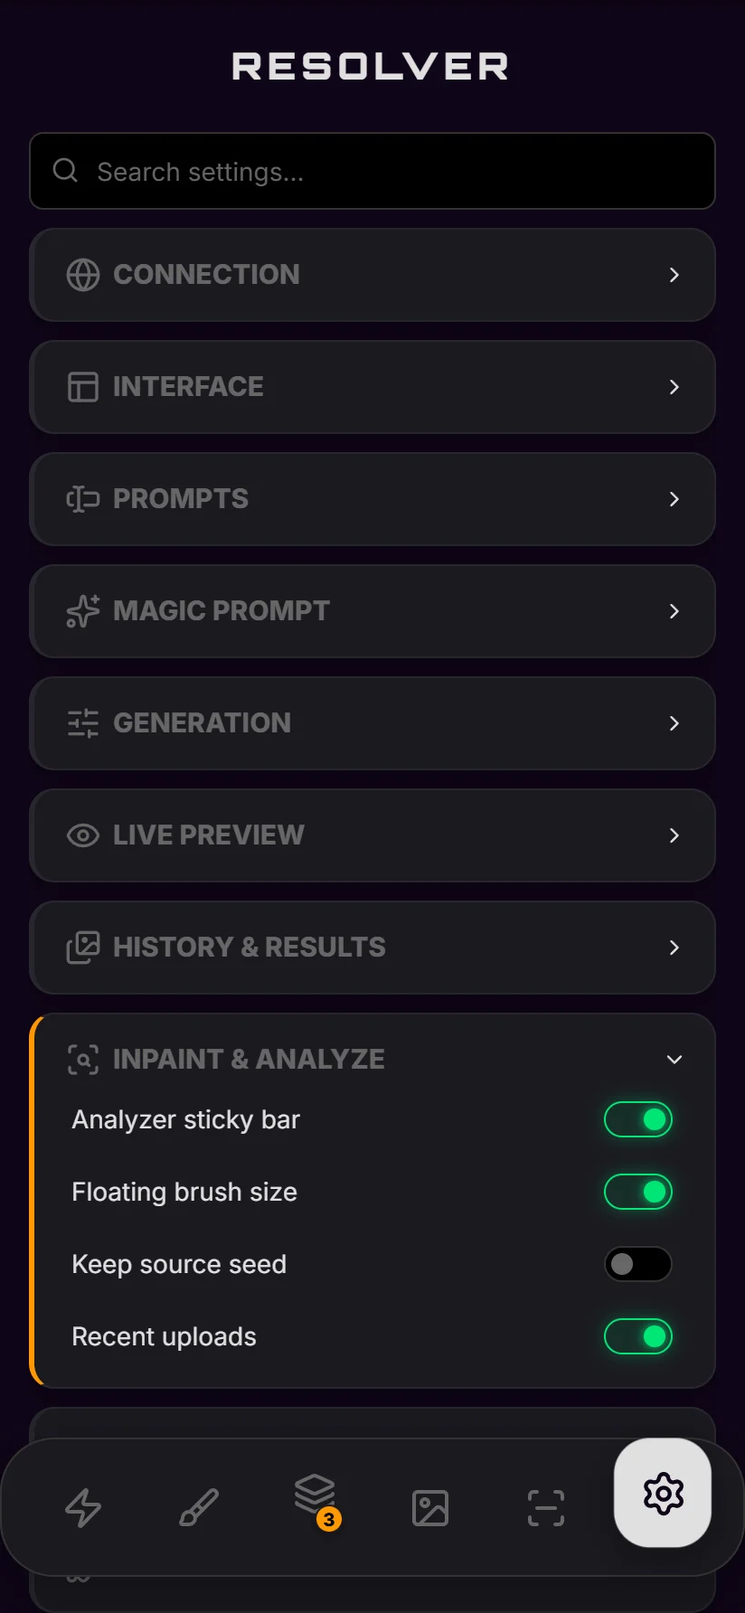
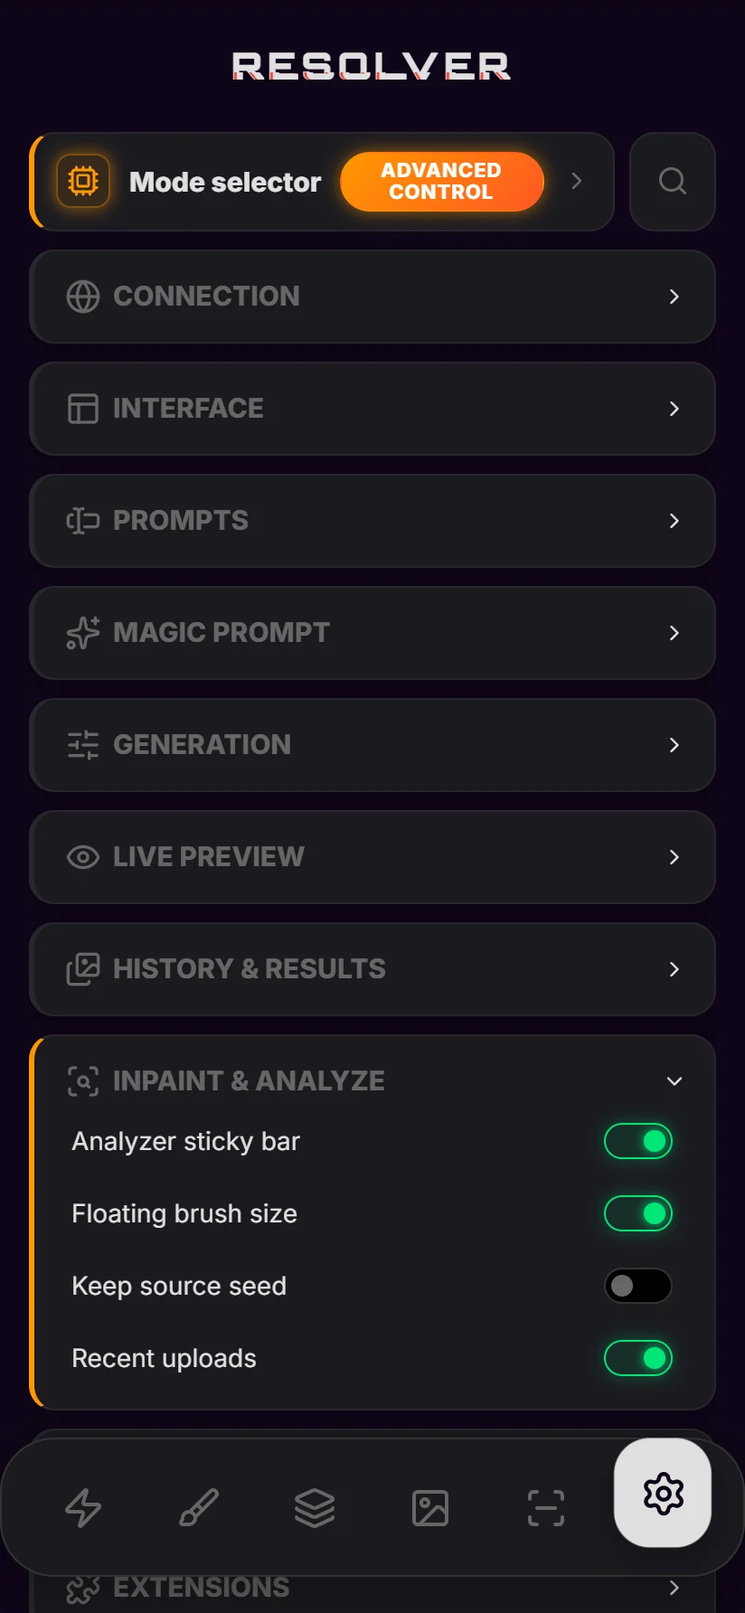
Docs: Simple mode and Advanced Control
Config page: a Simple and Advanced Control section (what each mode shows, holding the CPU, back to Simple), the search icon, and a mode filter in the settings explorer with Advanced Control tags. Every Config path in the docs to an Advanced-only option is tagged automatically. Help gets a 'setting not in my Config' answer, search finds the new sections, Getting Started mentions Simple mode, and the docs say v3.1. Config screenshots are retaken, with four new ones (the Mode Selector in its three states and Config with Advanced Control on).

diff --git a/docs/html/assets/js/docs.js b/docs/html/assets/js/docs.js
@@ -253,7 +253,7 @@
             gal: { icon: 'image', name: 'History', shot: 'tab-history', text: 'Every image you make, with search, favourites, date sections, multi-select, sharing and comparing.', link: 'history' },
             ana: { icon: 'scan-line', name: 'Analyze', shot: 'tab-analyze', text: "Open any image to read how it was made (prompt, seed, model, LoRAs) and send those settings straight back to Generate.", link: 'analyze' },
             comfy: { icon: 'workflow', name: 'ComfyUI', shot: 'tab-comfy', text: 'Run your own ComfyUI workflows. Resolver builds controls for the workflow’s inputs. Hidden until you switch it on in Config.', link: 'comfyui' },
-            cfg: { icon: 'settings', name: 'Config', shot: 'tab-config', text: 'Every setting, in 13 sections: Connection, Interface, Prompts, Magic Prompt, Generation, Live Preview, History & Results and more, with a search box at the top.', link: 'config' },
+            cfg: { icon: 'settings', name: 'Config', shot: 'tab-config', text: 'Every setting, in 13 sections. It starts in Simple mode (Connection, theme, dock, visible tabs, System Settings); the Mode selector at the top switches on Advanced Control for the rest. Search with the icon beside it.', link: 'config' },
         };
         const MODELS = [['xl', 'SDXL', '#ff9800', 'gen-sdxl'], ['anima', 'ANIMA', '#00c853', 'gen-anima'], ['qwen', 'QWEN', '#ff007f', 'gen-qwen'], ['flux', 'FLUX', '#00e5ff', 'gen-flux'], ['krea', 'KREA', '#b026ff', 'gen-krea']];
         const img = $('.screen img', el), dock = $('.tour-dock', el), info = $('.tour-info', el);
@@ -436,6 +436,49 @@
     const paintPc = t => (window.PromptPaint ? PromptPaint.html(t, false) : esc(t));
     $$('[data-pc]').forEach(el => { el.innerHTML = paintPc(el.dataset.pc); el.classList.add('pc-text'); });
 
+    // Config's two modes (the app's advcontrol.js). Simple, the default, shows Connection, System Settings and, in
+    // Interface, Dock style, Light mode and Visible tabs; everything else shows with Advanced Control on.
+    const CFG_SECTIONS = { 'connection': 'connection', 'interface': 'interface', 'prompts': 'prompts', 'magic prompt': 'magic',
+        'generation': 'generation', 'live preview': 'livepreview', 'history & results': 'history', 'inpaint & analyze': 'inpana',
+        'models': 'models', 'extensions': 'extensions', 'diagnostics': 'diag', 'experimental': 'experimental', 'system settings': 'sys' };
+    const SIMPLE_IFACE = ['dock style', 'light mode', 'visible tabs'];
+    const cfgAdvanced = (sec, item) => sec === 'interface'
+        ? !SIMPLE_IFACE.some(n => String(item || '').trim().toLowerCase().startsWith(n))
+        : !['connection', 'sys'].includes(sec);
+    const ADV_TAG = `<a class="adv-tag" href="config.html#modes" title="Shown with Advanced Control on">${icon('cpu')}Advanced Control</a>`;
+    // Each "Config → Section → Option" in the text gets that tag when the option is only in Advanced Control.
+    (function tagAdvanced() {
+        const main = $('main.content');
+        if (!main) return;
+        const walk = document.createTreeWalker(main, NodeFilter.SHOW_TEXT), hits = [];
+        for (let n; (n = walk.nextNode());) {
+            if (n.nodeValue.includes('Config →') && !n.parentElement.closest('th, code, pre, a, [data-widget="cfgexplorer"], .adv-tag')) hits.push(n);
+        }
+        hits.forEach(n => {
+            const t = n.nodeValue, i = t.indexOf('Config →');
+            const head = t.slice(i).match(/^Config →\s*/)[0];
+            const after = t.slice(i + head.length);
+            const key = Object.keys(CFG_SECTIONS).find(k => after.toLowerCase().startsWith(k));
+            if (!key) return;
+            const im = after.slice(key.length).match(/^\s*→\s*([^→·,;.()]+)/);
+            let item = im && im[1];
+            // "Config → Interface" under an option's name: that option.
+            if (!item && key === 'interface') { const dt = n.parentElement.closest('dt'); if (dt && dt.firstChild) item = dt.firstChild.textContent; }
+            if (!cfgAdvanced(CFG_SECTIONS[key], item)) return;
+            const host = n.parentElement.closest('.ui, small');
+            if (host) {
+                if (host.tagName === 'SMALL') { if (!$('.adv-tag', host)) host.insertAdjacentHTML('beforeend', ' ' + ADV_TAG); }
+                else if (!host.nextElementSibling || !host.nextElementSibling.classList.contains('adv-tag')) host.insertAdjacentHTML('afterend', ADV_TAG);
+                return;
+            }
+            // In running text: right after the path.
+            const rest = n.splitText(i + head.length + key.length + (im ? im[0].replace(/\s+$/, '').length : 0));
+            const tmp = document.createElement('span');
+            tmp.innerHTML = ADV_TAG;
+            rest.parentNode.insertBefore(tmp.firstChild, rest);
+        });
+    })();
+
     // The weight each tag of a prompt gets, as Forge reads brackets: ( ) x1.1, [ ] /1.1, (tag:1.3) that number, nested
     // ones multiplied; \( \) are text; [a:b:0.5] / [tag:0.5] are timings, not weights.
     function tagWeights(text) {
@@ -564,22 +607,31 @@
     // Config: every option, searchable (data in config-data.js).
     W.cfgexplorer = el => {
         const D = window.CFG_DATA || [];
-        const q = $('input', el), chips = $('.cfgx-chips', el), list = $('.cfgx-list', el), count = $('.cfgx-count', el);
-        let sec = 'all';
+        const q = $('input', el), chips = $('.cfgx-chips:not(.cfgx-modes)', el), modes = $('.cfgx-modes', el), list = $('.cfgx-list', el), count = $('.cfgx-count', el);
+        let sec = 'all', mode = 'all';
         const total = D.reduce((n, s) => n + s.items.length, 0);
+        const MODE_NAME = { simple: 'in Simple', advanced: 'only in Advanced Control' };
+        // A whole section in Advanced Control is marked once, on its heading; in Interface, each option.
+        const secAdv = s => s.id !== 'interface' && cfgAdvanced(s.id);
+        const inMode = (s, it) => mode === 'all' || (mode === 'advanced') === cfgAdvanced(s.id, it.n);
         chips.innerHTML = `<button data-s="all" aria-pressed="true">All</button>` + D.map(s => `<button data-s="${s.id}">${icon(s.icon)}${esc(s.name)}</button>`).join('');
+        if (modes) {
+            modes.innerHTML = `<button data-m="all" aria-pressed="true">Both modes</button><button data-m="simple">${icon('layout-list')}Simple</button><button data-m="advanced">${icon('cpu')}Advanced Control</button>`;
+            modes.onclick = e => { const b = e.target.closest('button'); if (!b) return; mode = b.dataset.m; $$('button', modes).forEach(x => x.setAttribute('aria-pressed', String(x === b))); paint(); };
+        }
         const hi = (text, words) => { let h = text; words.forEach(w => { if (w.length > 1) h = h.replace(new RegExp('(' + w.replace(/[.*+?^${}()|[\]\\]/g, '\\$&') + ')(?![^<]*>)', 'ig'), '<mark>$1</mark>'); }); return h; };
         function paint() {
             const words = q.value.toLowerCase().split(/\s+/).filter(Boolean);
             let shown = 0;
             list.innerHTML = D.filter(s => sec === 'all' || s.id === sec).map(s => {
-                const items = s.items.filter(it => { const hay = (it.n + ' ' + it.d + ' ' + (it.k || '') + ' ' + s.name).toLowerCase(); return words.every(w => hay.includes(w)); });
+                const items = s.items.filter(it => { const hay = (it.n + ' ' + it.d + ' ' + (it.k || '') + ' ' + s.name).toLowerCase(); return inMode(s, it) && words.every(w => hay.includes(w)); });
                 shown += items.length;
                 if (!items.length) return '';
-                return `<div class="cfgx-sec" id="cfg-${s.id}">${icon(s.icon)}${esc(s.name)}<span class="muted" style="letter-spacing:0;text-transform:none;font-weight:600">· ${s.items.length}</span>${s.shot ? `<a href="assets/img/shots/${s.shot}.webp" class="cfgx-shot" data-shot="${s.shot}">SCREENSHOT</a>` : ''}</div>` +
-                    items.map(it => `<div class="cfgx-item${it.sub ? ' cfgx-sub' : ''}"><b>${hi(esc(it.n), words)}</b><span class="def${/^on$/i.test(it.v) ? ' on' : ''}">${esc(it.v || '')}</span><p>${hi(it.d, words)}</p></div>`).join('');
-            }).join('') || `<div class="cfgx-none">No setting matches “${esc(q.value)}”.</div>`;
-            count.textContent = words.length || sec !== 'all' ? `${shown} of ${total} settings` : `${total} settings in ${D.length} sections`;
+                const tag = `<span class="adv-tag">${icon('cpu')}Advanced Control</span>`;
+                return `<div class="cfgx-sec" id="cfg-${s.id}">${icon(s.icon)}${esc(s.name)}<span class="muted" style="letter-spacing:0;text-transform:none;font-weight:600">· ${s.items.length}</span>${secAdv(s) ? tag : ''}${s.shot ? `<a href="assets/img/shots/${s.shot}.webp" class="cfgx-shot" data-shot="${s.shot}">SCREENSHOT</a>` : ''}</div>` +
+                    items.map(it => `<div class="cfgx-item${it.sub ? ' cfgx-sub' : ''}"><b>${hi(esc(it.n), words)}${!secAdv(s) && cfgAdvanced(s.id, it.n) ? tag : ''}</b><span class="def${/^on$/i.test(it.v) ? ' on' : ''}">${esc(it.v || '')}</span><p>${hi(it.d, words)}</p></div>`).join('');
+            }).join('') || `<div class="cfgx-none">No setting matches${q.value ? ` “${esc(q.value)}”` : ''}${mode !== 'all' ? ' ' + MODE_NAME[mode] : ''}.</div>`;
+            count.textContent = words.length || sec !== 'all' || mode !== 'all' ? `${shown} of ${total} settings${mode !== 'all' ? ' ' + MODE_NAME[mode] : ''}` : `${total} settings in ${D.length} sections`;
             drawIcons();
         }
         chips.onclick = e => { const b = e.target.closest('button'); if (!b) return; sec = b.dataset.s; $$('button', chips).forEach(x => x.setAttribute('aria-pressed', String(x === b))); paint(); };

diff --git a/docs/html/config.html b/docs/html/config.html
@@ -4,7 +4,7 @@
 <meta charset="utf-8">
 <meta name="viewport" content="width=device-width, initial-scale=1">
 <title>Config · Resolver Docs</title>
-<meta name="description" content="Every setting in Resolver's Config tab, searchable: what it does and its default, section by section.">
+<meta name="description" content="Every setting in Resolver's Config tab, searchable: Simple mode and Advanced Control, what each option does and its default, section by section.">
 <link rel="icon" href="assets/img/favicon.png">
 <script>try{var t=localStorage.getItem('rdocs-theme'),a=localStorage.getItem('rdocs-accent');if(t&&t!=='system')document.documentElement.dataset.theme=t;if(a)document.documentElement.dataset.accent=a;}catch(e){}</script>
 <link rel="stylesheet" href="assets/css/docs.css">
@@ -14,20 +14,49 @@
 
 <p class="crumbs"><a href="index.html">Docs</a> / Settings</p>
 <h1>Config</h1>
-<p class="lead">The <i data-lucide="settings" style="width:18px;height:18px;vertical-align:-3px"></i> tab holds every setting, in 13 sections that open and close. All of them are below with their defaults: search, or pick a section.</p>
+<p class="lead">The <i data-lucide="settings" style="width:18px;height:18px;vertical-align:-3px"></i> tab holds every setting, in 13 sections that open and close. It starts in <b>Simple</b> mode with just the essentials; <b>Advanced Control</b> shows the rest. All of them are below with their defaults: search, or pick a section.</p>
+
+<h2 id="modes">Simple and Advanced Control</h2>
+<div class="split">
+    <div>
+        <p>The <span class="ui plain"><i data-lucide="cpu" style="width:14px;height:14px;vertical-align:-2px"></i> Mode selector</span> bar at the top of Config shows which mode you’re in.</p>
+        <dl class="opt"><dt>Simple<small>the default</small></dt><dd>What you need to connect and look after the app: all of <b>Connection</b>, <b>Dock style</b>, <b>Light mode</b> and <b>Visible tabs</b> from Interface, and all of <b>System Settings</b>.</dd></dl>
+        <dl class="opt"><dt>Advanced Control</dt><dd>Every option, in all 13 sections: Simple’s, plus Prompts, Magic Prompt, Generation, Live Preview, History &amp; Results, Inpaint &amp; Analyze, Models, Extensions, Diagnostics, Experimental and the rest of Interface.</dd></dl>
+        <div class="callout note"><i data-lucide="info"></i><div><b>Hidden isn’t off</b><p>An option you can’t see in Simple keeps working exactly as it is set. Switching modes only changes what Config shows. In these docs, options that only Advanced Control shows carry an <span class="adv-tag"><i data-lucide="cpu"></i>Advanced Control</span> tag.</p></div></div>
+    </div>
+    <figure class="shot"><div class="phone sm"><div class="screen"><img class="zoomable" src="assets/img/shots/tab-config.webp" alt="The Config tab in Simple mode: Mode selector bar, Connection, Interface and System Settings" loading="lazy" width="412" height="892"></div></div><figcaption>Config in Simple mode, sections closed.</figcaption></figure>
+</div>
+
+<h3 id="switch-on">Switching on Advanced Control</h3>
+<ol class="steps">
+    <li><b>Tap the Mode selector bar</b>The <b>Mode Selector</b> window opens: a CPU wired to the app, with <i>ADVANCED CONTROL · Proceed at your own risk</i> on it.</li>
+    <li><b>Hold the CPU</b>Keep your finger on it until its bar fills (under 2 seconds). Energy runs faster along the wiring as it charges, and the phone gives a small tick every quarter. Let go early and nothing changes.</li>
+    <li><b>Done</b>The wiring lights up, the energy reaches the app, the window closes, and the Advanced Control sections fade in. The bar now reads <span class="ui">ADVANCED CONTROL</span>.</li>
+</ol>
+<div class="mode-shots">
+    <figure class="shot"><div class="phone sm"><div class="screen"><img class="zoomable" src="assets/img/shots/mode-simple.webp" alt="Mode Selector window in Simple: the CPU with HOLD TO ACTIVATE" loading="lazy" width="412" height="892"></div></div><figcaption>The Mode Selector, in Simple.</figcaption></figure>
+    <figure class="shot"><div class="phone sm"><div class="screen"><img class="zoomable" src="assets/img/shots/mode-charging.webp" alt="Holding the CPU: its bar filling, CHARGING" loading="lazy" width="412" height="892"></div></div><figcaption>Holding the CPU.</figcaption></figure>
+    <figure class="shot"><div class="phone sm"><div class="screen"><img class="zoomable" src="assets/img/shots/mode-active.webp" alt="Mode Selector with Advanced Control on: the board lit, SWITCH TO SIMPLE" loading="lazy" width="412" height="892"></div></div><figcaption>Advanced Control on.</figcaption></figure>
+</div>
+<ul>
+    <li><b>Back to Simple:</b> tap the Mode selector bar again, then <span class="ui">SWITCH TO SIMPLE</span>. One tap, no hold.</li>
+    <li><b>Remembered:</b> the app keeps your mode when you close it. <span class="ui plain">RESET APP CONFIGURATION</span> doesn’t change it.</li>
+    <li><b>Colors:</b> the CPU and its wiring take the accent of the model last picked on Generate (SDXL orange, Flux cyan, Qwen pink, Anima green, Krea purple). In light mode they’re orange, as the rest of the app.</li>
+</ul>
 
 <div class="split">
     <div>
         <h2 id="using">Finding a setting in the app</h2>
         <ul>
-            <li>The <b>Search settings…</b> box at the top of Config finds any option by name and opens its section, with the match marked. The × clears it.</li>
-            <li>Tap a section’s header to open or close it; the app remembers which are open.</li>
+            <li>Tap the <span class="ui plain"><i data-lucide="search" style="width:14px;height:14px;vertical-align:-2px"></i></span> beside the Mode selector to search. The box takes the bar’s place, finds options by name and opens their section, with the match marked. The × closes the search.</li>
+            <li>The search looks only at what your mode shows. In Simple, an Advanced Control option isn’t found: switch Advanced Control on first.</li>
+            <li>Tap a section’s header to open or close it; one is open at a time, and the app remembers which.</li>
             <li>Changes are saved at once: there is no Save button.</li>
             <li>Options shown <i>under</i> another (indented below) appear only while that one is on.</li>
         </ul>
         <div class="callout tip"><i data-lucide="rotate-ccw"></i><div><b>Undo everything</b><p><span class="ui plain">System Settings → RESET APP CONFIGURATION</span> puts every option back to its default. Your connections, prompts, History, styles, LoRA settings and presets are kept.</p></div></div>
     </div>
-    <figure class="shot"><div class="phone sm"><div class="screen"><img class="zoomable" src="assets/img/shots/tab-config.webp" alt="The Config tab" loading="lazy" width="412" height="892"></div></div><figcaption>The Config tab, sections closed.</figcaption></figure>
+    <figure class="shot"><div class="phone sm"><div class="screen"><img class="zoomable" src="assets/img/shots/tab-config-adv.webp" alt="The Config tab with Advanced Control on: all 13 sections" loading="lazy" width="412" height="892"></div></div><figcaption>Config with Advanced Control on: all 13 sections.</figcaption></figure>
 </div>
 
 <h2 id="all">Every setting</h2>
@@ -35,6 +64,7 @@
     <div class="cfgx-bar">
         <div class="faq-tools" style="margin:0"><input type="search" placeholder="Search settings: e.g. seed, vram, preview, badges…" aria-label="Search settings"></div>
         <div class="cfgx-chips" role="group" aria-label="Sections"></div>
+        <div class="cfgx-chips cfgx-modes" role="group" aria-label="Mode"></div>
         <span class="cfgx-count" aria-live="polite"></span>
     </div>
     <div class="cfgx-list"></div>

diff --git a/docs/html/help.html b/docs/html/help.html
@@ -68,6 +68,7 @@
     <details><summary><span class="faq-tag">Magic Prompt</span>LINK fails, or the model list is empty</summary><div><p>Check the model server runs and accepts network connections (LM Studio: <i>Serve on Local Network</i>), that a model is loaded, and the <b>LLM</b> port in Config (1234 for LM Studio, 11434 for Ollama).</p></div></details>
     <details><summary><span class="faq-tag">Magic Prompt</span>Describe says “This model can’t read images”</summary><div><p>Describe needs a vision model (Qwen2.5-VL, Gemma 3, LLaVA…). Pick one in DESCRIBE’s own settings.</p></div></details>
 
+    <details><summary><span class="faq-tag">App</span>A setting from these docs isn’t in my Config</summary><div><p>Config starts in <b>Simple</b> mode, which shows only Connection, Dock style, Light mode, Visible tabs and System Settings. Settings marked <span class="adv-tag"><i data-lucide="cpu"></i>Advanced Control</span> show once you switch it on: tap the <b>Mode selector</b> bar at the top of Config and hold the CPU until its bar fills. Config’s search also only finds what the current mode shows. Hidden settings keep working as they are set. See <a href="config.html#modes">Simple and Advanced Control</a>.</p></div></details>
     <details><summary><span class="faq-tag">App</span>How do updates work?</summary><div><p>The app checks for updates when it starts (and with <span class="ui plain">Config → System Settings → UPDATE CHECK</span>). <b>Update Available</b> shows what’s new: <span class="ui">INSTALL UPDATE</span>, <span class="ui">LATER</span> or <span class="ui">SKIP</span> this version. Most updates install inside the app; a few need a new APK, which opens the download page. Your images and settings are kept. Turn the notices off with <b>Update notifications</b>.</p></div></details>
     <details><summary><span class="faq-tag">App</span>I changed a lot of settings and want the defaults back</summary><div><p><span class="ui plain">Config → System Settings → RESET APP CONFIGURATION</span>. Your content is kept. See <a href="backup.html#reset">Reset</a>.</p></div></details>
     <details><summary><span class="faq-tag">App</span>Moving to a new phone</summary><div><p>BACK UP on the old phone (tick History Favorites if you want those images), copy the file over, install Resolver, then RESTORE. See <a href="backup.html">Backup &amp; Restore</a>.</p></div></details>

diff --git a/docs/html/getting-started.html b/docs/html/getting-started.html
@@ -32,7 +32,7 @@
 
 <h2 id="install">Install the app</h2>
 <ol class="steps">
-    <li id="s-install"><b>Download the APK</b>Get <code>Resolverv3.0.apk</code> from the <a href="https://github.com/bojrodev/Resolver-Stable-Diffusion-Client-for-android/releases" target="_blank" rel="noopener">Releases page on GitHub</a>.</li>
+    <li id="s-install"><b>Download the APK</b>Get the latest APK (for example <code>Resolver3.1.apk</code>) from the <a href="https://github.com/bojrodev/Resolver-Stable-Diffusion-Client-for-android/releases" target="_blank" rel="noopener">Releases page on GitHub</a>.</li>
     <li><b>Install it</b>Open the file on your phone. Android may ask you to allow installing apps from your browser or file manager; allow it for that app.</li>
     <li><b>Updating later?</b>Install the new APK <b>over</b> the old one. Don’t uninstall first: uninstalling deletes your History, settings, LoRA data, styles and wildcards.</li>
 </ol>
@@ -96,7 +96,7 @@
     <div>
         <ol class="steps">
             <li><b>Open Config</b>Tap the <span class="ui plain"><i data-lucide="settings" style="width:14px;height:14px;vertical-align:-2px"></i> gear</span> at the right end of the dock.</li>
-            <li><b>Open Connection</b>It’s the first section. Leave <span class="ui">LOCAL</span> selected.</li>
+            <li><b>Open Connection</b>It’s the first section, under the Mode selector bar. Config starts in <a href="config.html#modes">Simple mode</a>, which shows everything you need here. Leave <span class="ui">LOCAL</span> selected.</li>
             <li><b>Enter your PC’s address</b>In <b>Local IP address</b>, type it with <code>http://</code> in front, e.g. <code>http://192.168.1.20</code>.</li>
             <li><b>Check the ports</b>Leave the defaults unless you changed them on the PC:<br>
                 <span class="chip">WEBUI 7860</span> Forge · <span class="chip">COMFY 8188</span> ComfyUI · <span class="chip">LLM 1234</span> Magic Prompt · <span class="chip">WAKE 5000</span> Dev Power</li>

diff --git a/docs/html/index.html b/docs/html/index.html
@@ -14,7 +14,7 @@
 
 <section class="hero">
     <div>
-        <p class="eyebrow">Resolver v3.0 · Documentation</p>
+        <p class="eyebrow">Resolver v3.1 · Documentation</p>
         <h1>Learn <span class="wm">RESOLVER</span>,<br>feature by feature.</h1>
         <p class="lead">Resolver turns your Android phone into a full remote control for Stable Diffusion running on your PC, through <b>Forge</b> or <b>ComfyUI</b>. These docs walk you through every tab, button and setting, with screenshots from the app.</p>
         <div class="btn-row">
@@ -82,7 +82,7 @@
     <a class="feature" href="comfyui.html"><span class="ic"><i data-lucide="workflow"></i></span><b>ComfyUI →</b><span>Run your own workflows with controls built for them.</span></a>
     <a class="feature" href="dev-power.html"><span class="ic"><i data-lucide="power"></i></span><b>Dev Power &amp; Remote →</b><span>Start Forge from the phone, and connect from anywhere.</span></a>
     <a class="feature" href="background.html"><span class="ic"><i data-lucide="bell"></i></span><b>Background &amp; Notifications →</b><span>Keep generating with the screen off.</span></a>
-    <a class="feature" href="config.html"><span class="ic"><i data-lucide="settings"></i></span><b>Config →</b><span>All 99 settings, searchable, with their defaults.</span></a>
+    <a class="feature" href="config.html"><span class="ic"><i data-lucide="settings"></i></span><b>Config →</b><span>All 99 settings, searchable, with their defaults; Simple mode and Advanced Control.</span></a>
     <a class="feature" href="backup.html"><span class="ic"><i data-lucide="archive-restore"></i></span><b>Backup &amp; Restore →</b><span>Keep your styles, LoRA data, wildcards and favorites safe.</span></a>
     <a class="feature" href="help.html"><span class="ic"><i data-lucide="life-buoy"></i></span><b>Troubleshooting &amp; FAQ →</b><span>Answers to common problems, and the Debug Log.</span></a>
 </div>

diff --git a/docs/html/assets/css/docs.css b/docs/html/assets/css/docs.css
@@ -490,6 +490,18 @@ input[type=range] { accent-color: var(--accent); width: 100%; height: 30px; }
 .cfgx-item mark, .faq mark { background: rgba(var(--accent-rgb), .3); color: inherit; border-radius: 3px; }
 .cfgx-sub { margin-left: 22px; border-left-width: 3px; border-left-color: rgba(var(--accent-rgb), .35); }
 .cfgx-none { padding: 30px; text-align: center; color: var(--muted); }
+/* "Advanced Control": a setting Config shows only in that mode (docs.js marks them). */
+.adv-tag { display: inline-flex; align-items: center; gap: 4px; margin-left: 6px; padding: 2px 7px; border-radius: 999px; border: 1px solid rgba(var(--accent-rgb), .45); background: rgba(var(--accent-rgb), .08); color: var(--accent); font: 800 10.5px/1.3 var(--font); letter-spacing: .4px; text-transform: none; white-space: nowrap; vertical-align: 1px; text-decoration: none; }
+a.adv-tag:hover { background: rgba(var(--accent-rgb), .16); text-decoration: none; }
+.adv-tag svg { width: 12px; height: 12px; }
+.cfgx-sec .adv-tag { letter-spacing: .4px; margin-left: 0; }
+/* With the tag, a long section name wraps on a phone instead of pushing SCREENSHOT off the side. */
+.cfgx-sec { flex-wrap: wrap; row-gap: 8px; }
+.cfgx-item b .adv-tag { vertical-align: 2px; }
+/* The Mode Selector's three states, side by side. */
+.mode-shots { display: grid; grid-template-columns: repeat(3, minmax(0, 1fr)); gap: 14px; margin: 18px 0; }
+.mode-shots figure { margin: 0; }
+@media (max-width: 640px) { .mode-shots { grid-template-columns: minmax(0, 1fr); max-width: 300px; margin-inline: auto; } }
 
 /* ---------- FAQ ---------- */
 .faq-tools { display: flex; flex-wrap: wrap; gap: 10px; align-items: center; margin: 10px 0 16px; }

diff --git a/docs/html/assets/js/site.js b/docs/html/assets/js/site.js
@@ -1,7 +1,7 @@
 // Resolver docs: the site map. Every page (in reading order), the sidebar's groups, and the search index.
 // A page with ready: false is listed in the sidebar as coming soon and left out of search and prev / next.
 window.SITE = {
-    version: '3.0',
+    version: '3.1',
     groups: [
         { name: 'Start', pages: ['index', 'getting-started'] },
         { name: 'Create', pages: ['generate', 'prompting', 'loras-styles', 'wildcards', 'magic-prompt', 'extensions'] },
@@ -155,7 +155,9 @@ window.SITE = {
         { t: 'Polling rates', p: 'background', h: 'polling', k: 'polling rate background polling' },
         // Config
         { t: 'Every Config setting', p: 'config', h: 'all', k: 'config settings options all defaults explorer' },
-        { t: 'Finding a setting', p: 'config', h: 'using', k: 'search settings sections reset' },
+        { t: 'Finding a setting', p: 'config', h: 'using', k: 'search settings sections reset magnifier icon' },
+        { t: 'Simple mode and Advanced Control', p: 'config', h: 'modes', k: 'simple advanced control mode selector hidden settings missing essentials' },
+        { t: 'Switching on Advanced Control', p: 'config', h: 'switch-on', k: 'advanced control hold cpu mode selector unlock show all settings switch to simple' },
         // Backup
         { t: 'Making a backup', p: 'backup', h: 'backup', k: 'backup back up export parts documents' },
         { t: 'What a backup file holds', p: 'backup', h: 'files', k: 'backup zip json files manifest' },

diff --git a/docs/html/extensions.html b/docs/html/extensions.html
@@ -18,7 +18,7 @@
 
 <h2 id="overview">Which ones, and where to switch them on</h2>
 <div class="tbl-wrap"><table class="tbl">
-    <thead><tr><th>Extension</th><th>What it’s for</th><th>Needs in Forge</th><th>Switch on in Config → Extensions</th></tr></thead>
+    <thead><tr><th>Extension</th><th>What it’s for</th><th>Needs in Forge</th><th>Switch on in Config → Extensions <span class="adv-tag"><i data-lucide="cpu"></i>Advanced Control</span></th></tr></thead>
     <tbody>
         <tr><td><a href="#adetailer"><b>ADetailer</b></a></td><td>Finds faces, hands or people and redraws them in detail</td><td>ADetailer</td><td>Show ADetailer [SDXL/Anima] · [other]</td></tr>
         <tr><td><a href="#controlnet"><b>ControlNet</b></a></td><td>Follows a pose, outline or depth from a reference image</td><td>ControlNet (built into Forge)</td><td>Show ControlNet [SDXL/Anima] · [other] is in Experimental</td></tr>

diff --git a/docs/html/assets/js/config-data.js b/docs/html/assets/js/config-data.js
@@ -1,4 +1,4 @@
-// Every option in the app's Config tab (www/index.html #view-cfg, Resolver v3.0), in the app's order, for the Config
+// Every option in the app's Config tab (www/index.html #view-cfg, Resolver v3.1.1), in the app's order, for the Config
 // page's explorer. n: the name as the app shows it, v: its default, d: what it does (HTML), k: more search words,
 // sub: shown under the option above it (only while that one is on).
 window.CFG_DATA = [
